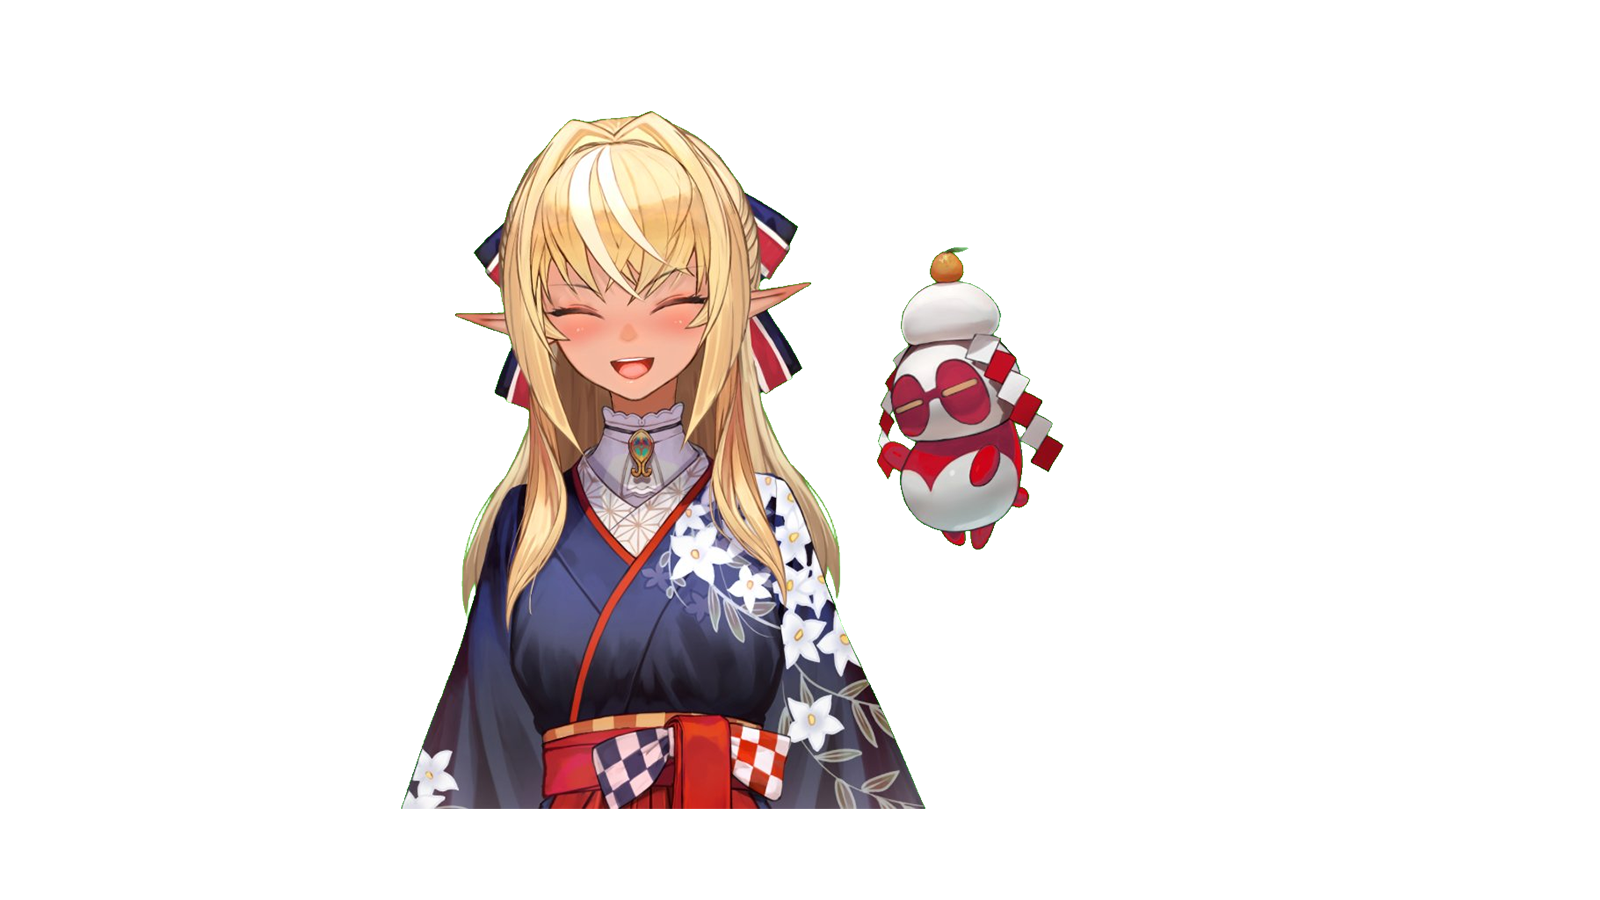
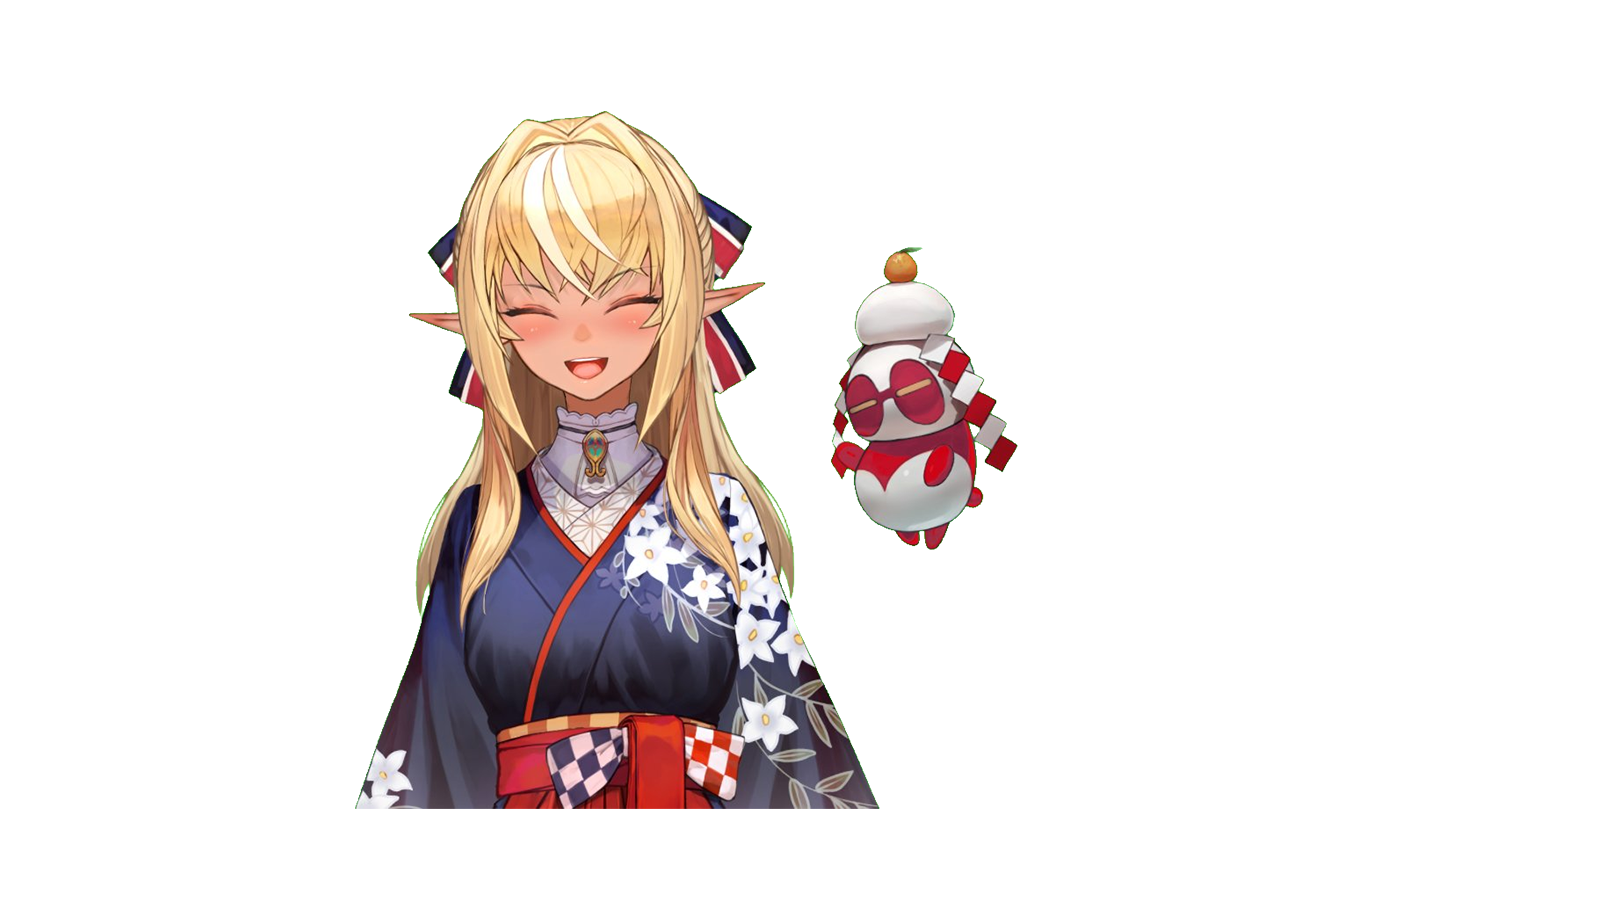
:sparkles: ふーたんを追加
引用元：https://twitter.com/shiranuiflare/status/1212670209498075137/

Changed region(s): [[0.2188, 0.1244, 0.6875, 0.9022]]

diff --git a/src/utils/main-img-loader.ts b/src/utils/main-img-loader.ts
@@ -1,7 +1,11 @@
 import watame from '../images/talents/tsunomaki-watame--gangimari.png';
-import flare from '../images/talents/shiranui-flare--02smile.png';
+import flare2 from '../images/talents/shiranui-flare--02.png';
+import flare2ibukashige from '../images/talents/shiranui-flare--02ibukashige.png';
+import flare2smile from '../images/talents/shiranui-flare--02smile.png';
 
 export const talents: [string, string][] = [
-  ['flare - 不知火フレア（笑顔）', flare],
+  ['flare - 不知火フレア（正月）', flare2],
+  ['flare - 不知火フレア（正月・いぶかしげ）', flare2ibukashige],
+  ['flare - 不知火フレア（正月・笑顔）', flare2smile],
   ['watame - 角巻わため（ガンギマリ）', watame],
 ];
